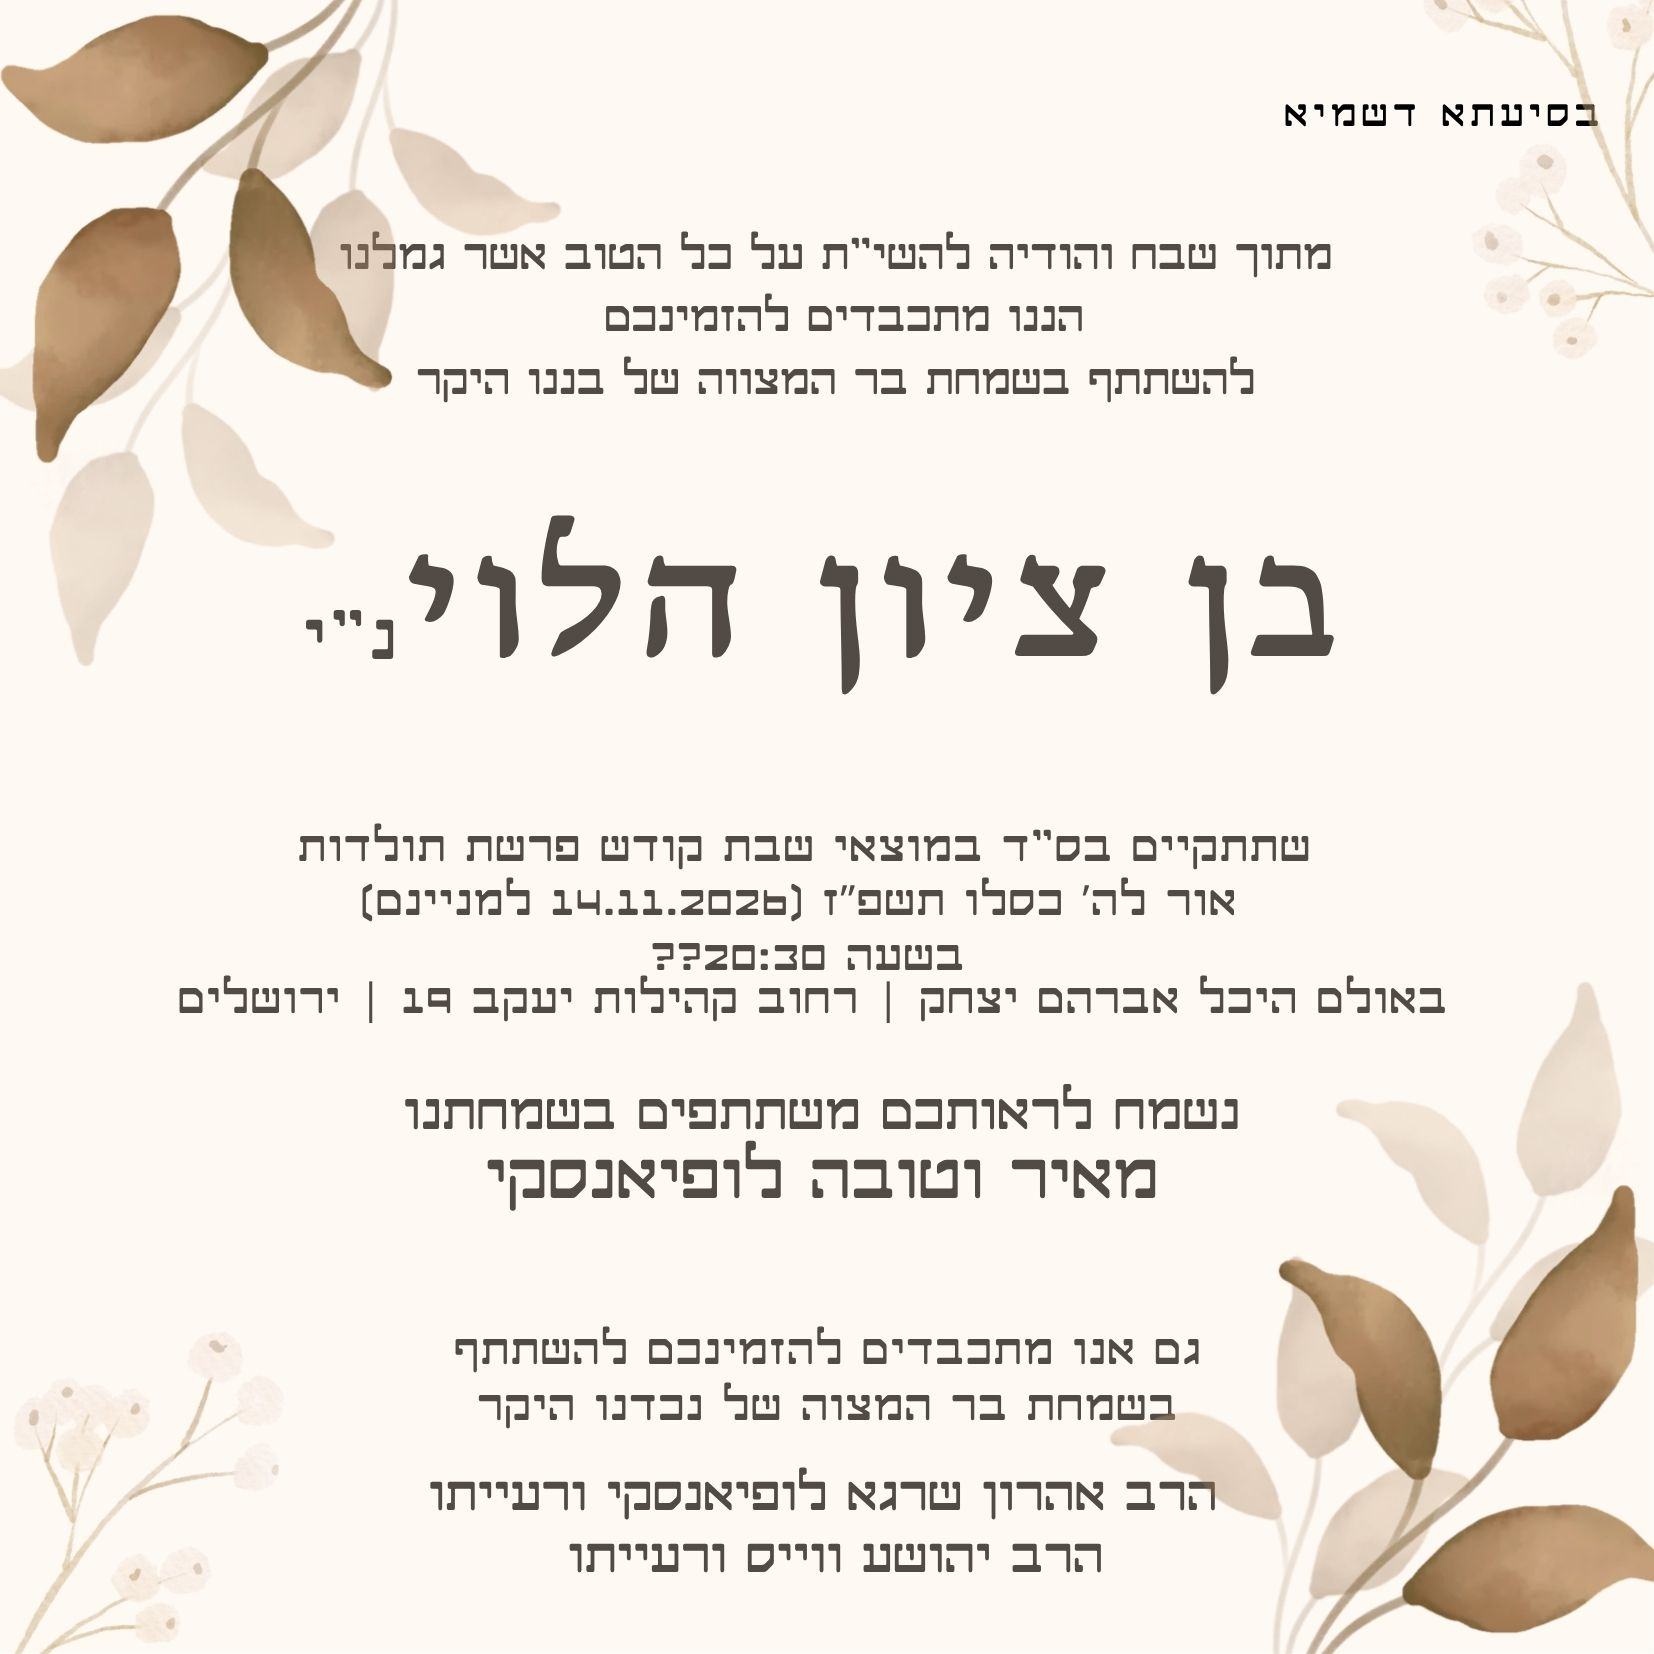
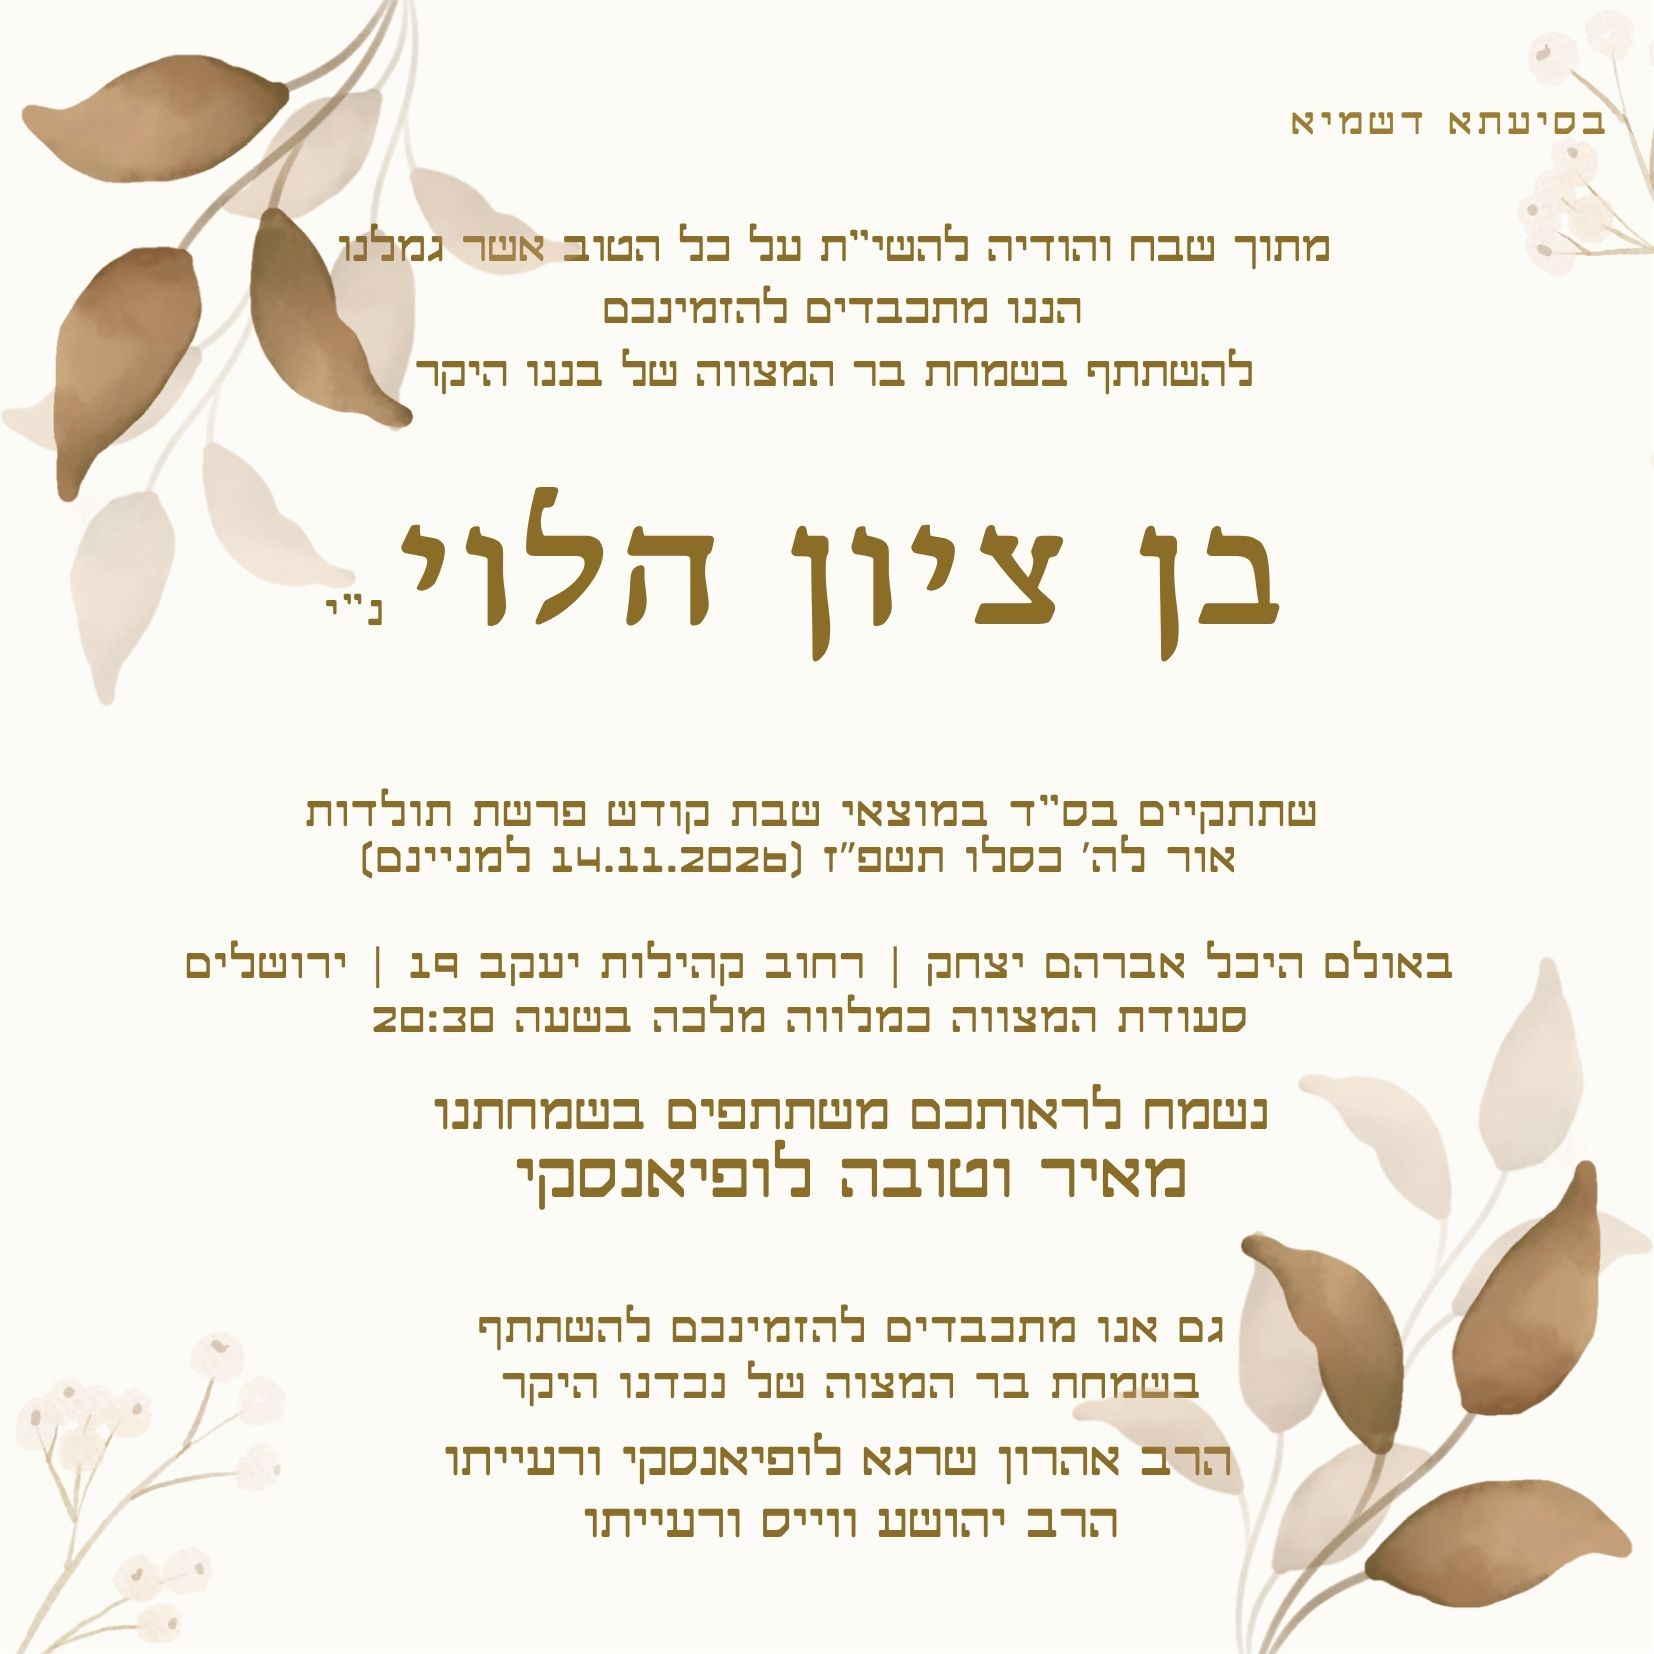
Update invitation image and meal time
Claude-Session: https://claude.ai/code/session_01GsKmSMfPLew4W5hBGpGFv3

diff --git a/index.html b/index.html
@@ -11,15 +11,15 @@
   <meta property="og:title" content="אישור הגעה – בר המצווה של בן ציון הלוי נ״י">
   <meta property="og:description" content="נשמח לראותכם משתתפים בשמחתנו. לאישור הגעה לחצו כאן">
   <meta property="og:url" content="https://meanochi.github.io/event-rsvp/">
-  <meta property="og:image" content="https://meanochi.github.io/event-rsvp/invitation.jpg?v=2">
+  <meta property="og:image" content="https://meanochi.github.io/event-rsvp/invitation.jpg?v=3">
   <meta property="og:image:width" content="1654">
   <meta property="og:image:height" content="1654">
   <script src="config.js"></script>
 </head>
 <body>
 <main class="wrap">
-  <a id="inviteLink" href="invitation.jpg?v=2" target="_blank" rel="noopener" title="לחצו להגדלה">
-    <img id="invite" class="invite" src="invitation.jpg?v=2" width="1654" height="1654" alt="הזמנה לשמחת בר המצווה של בן ציון הלוי נ״י">
+  <a id="inviteLink" href="invitation.jpg?v=3" target="_blank" rel="noopener" title="לחצו להגדלה">
+    <img id="invite" class="invite" src="invitation.jpg?v=3" width="1654" height="1654" alt="הזמנה לשמחת בר המצווה של בן ציון הלוי נ״י">
   </a>
   <div class="card">
     <div class="header">

diff --git a/config.js b/config.js
@@ -3,7 +3,7 @@ window.EVENT_CONFIG = {
   title: "בר המצווה של בן ציון הלוי\u00a0נ״י",            // שם האירוע
   hosts: "מאיר וטובה לופיאנסקי",                       // המזמינים
   date: "מוצאי שבת קודש פרשת תולדות, אור לה' כסלו תשפ\"ז (14.11.2026)",
-  time: "20:30",
+  time: "20:30 – סעודת המצווה במלווה מלכה",
   location: "אולם היכל אברהם יצחק, רחוב קהילות יעקב 19, ירושלים",
   mapsLink: "https://waze.com/ul?q=" + encodeURIComponent("קהילות יעקב 19 ירושלים"),
   rsvpDeadline: "",                 // תאריך אחרון לאישור – לא חובה
